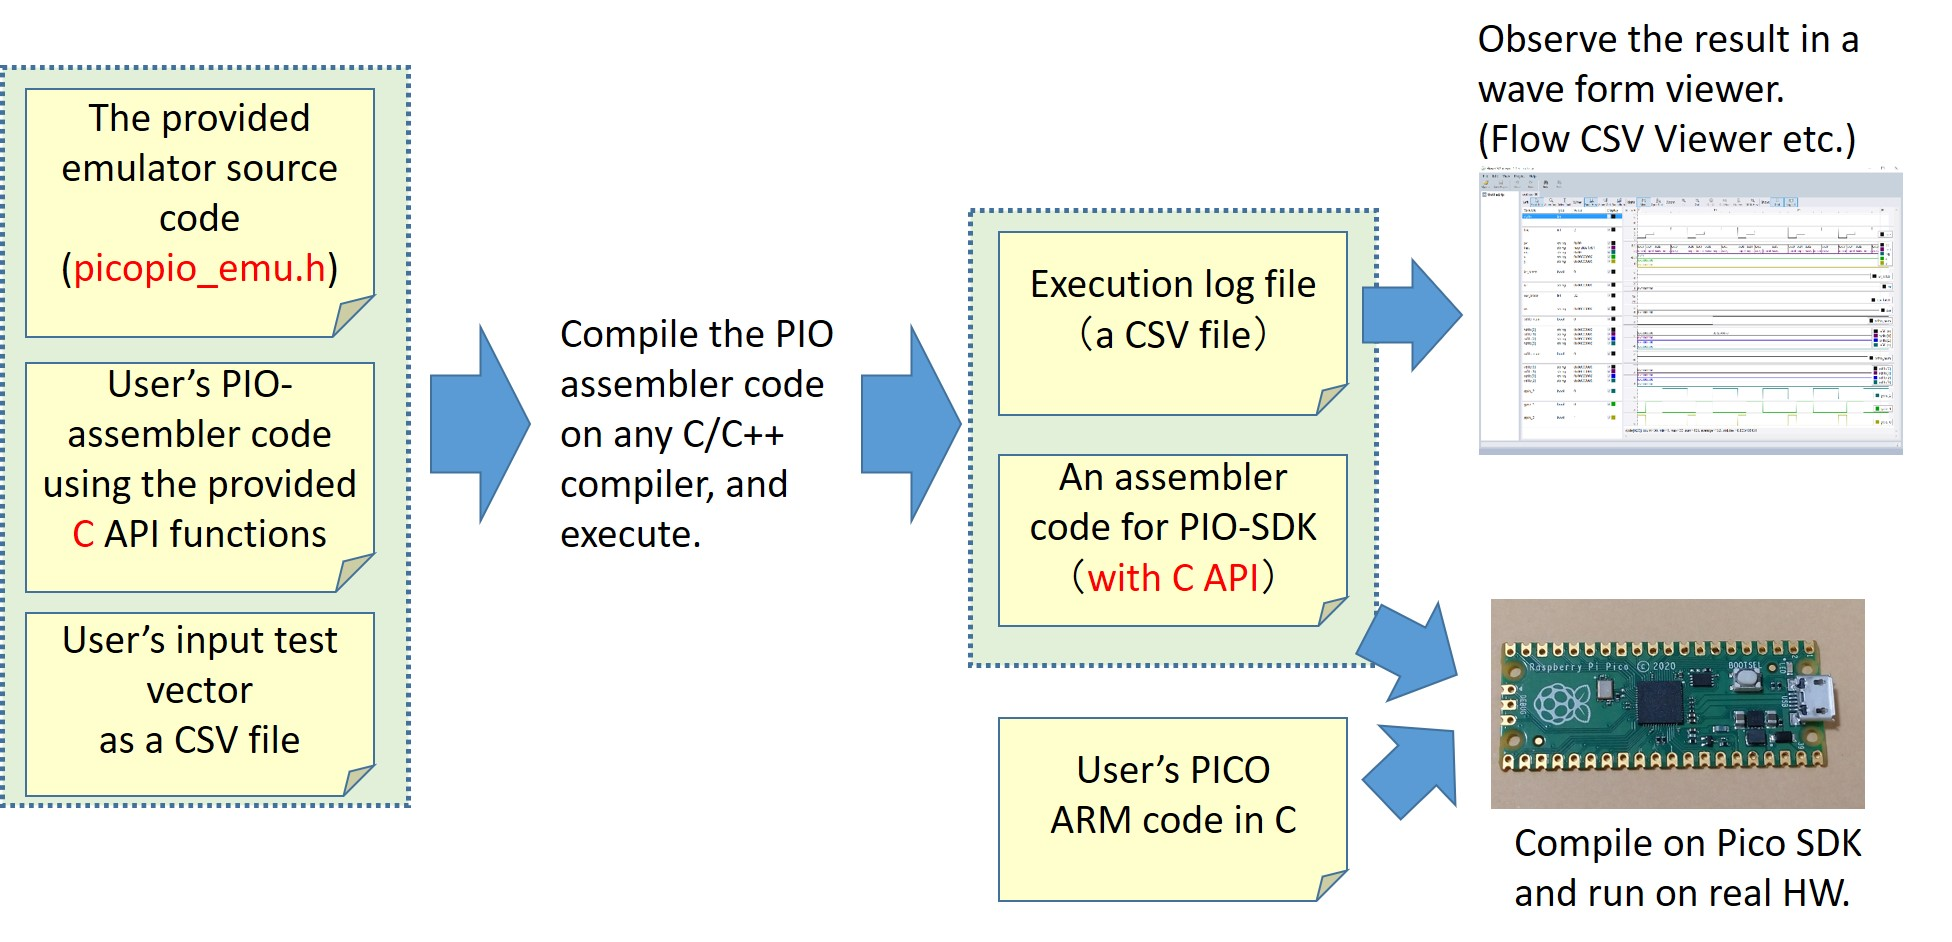
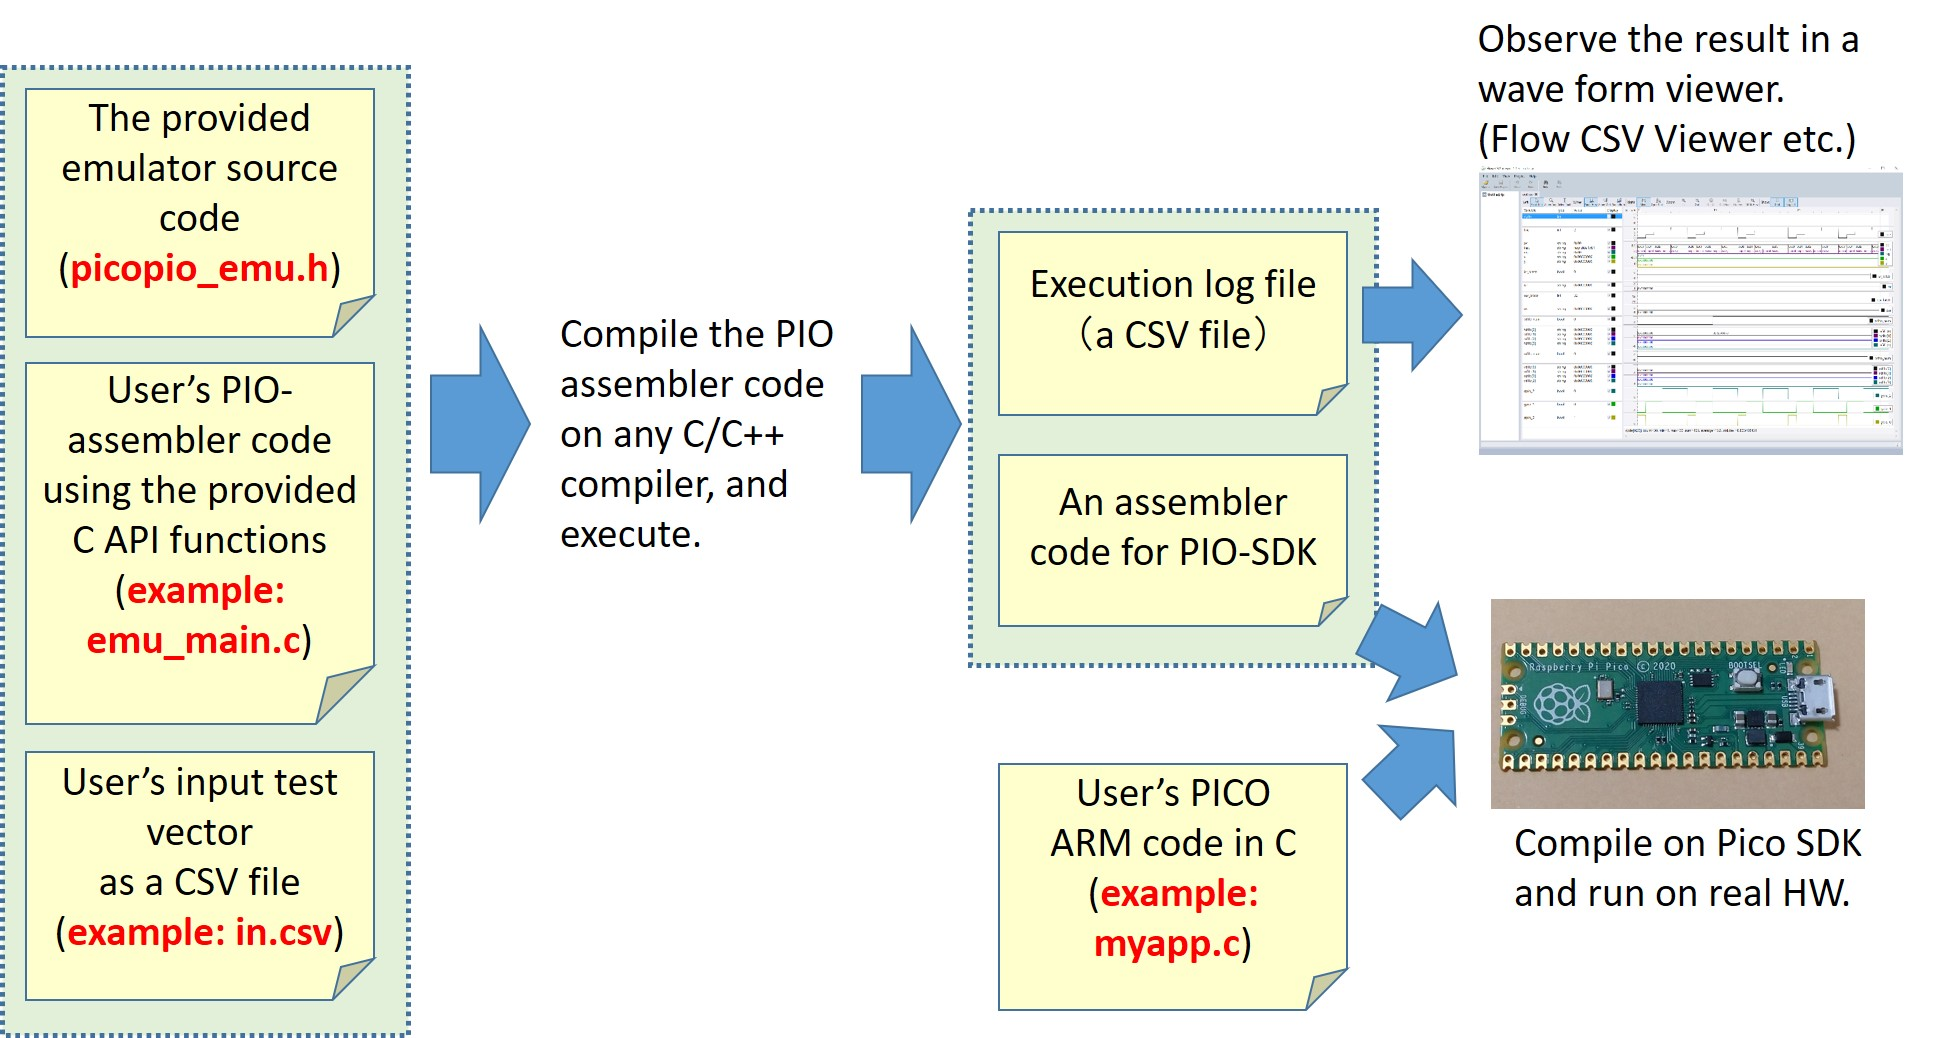
update

Changed region(s): [[0.0, 0.0616, 0.9688, 1.0], [0.75, 0.0308, 1.0, 0.4926], [0.5, 0.9236, 0.6875, 0.9851]]

diff --git a/myapp.c b/myapp.c
@@ -1,0 +1,39 @@
+#include <stdio.h>
+
+#include "pico/stdlib.h"
+#include "hardware/pio.h"
+#include "hardware/clocks.h"
+
+#include "pio0_sm0.pio.h"		// pio0_sm0.pio: PIO ASM src name
+
+int	main()
+{
+	uint	data;
+
+//	setup_default_uart();
+	stdio_init_all();
+	sleep_ms(3000);		// wait serial connection
+
+	// setup state machines
+	pio0_sm0_config(
+		pio0,
+		0,			// state machine
+
+//		1.0			// 125MHz
+//		1.25		// 100MHz
+//		12.50		// 10M
+		125.0		// 1M
+//		1250.0		// 100KHz
+//		12500.0		// 10KHz
+					// (min 1.9kHz)
+	);
+
+	// start state machines
+	pio_sm_set_enabled(pio0, 0, true);	// PIO pio, uint sm, bool enabled
+
+	// main
+	while (1) {
+		;
+	}
+}
+// end of file
